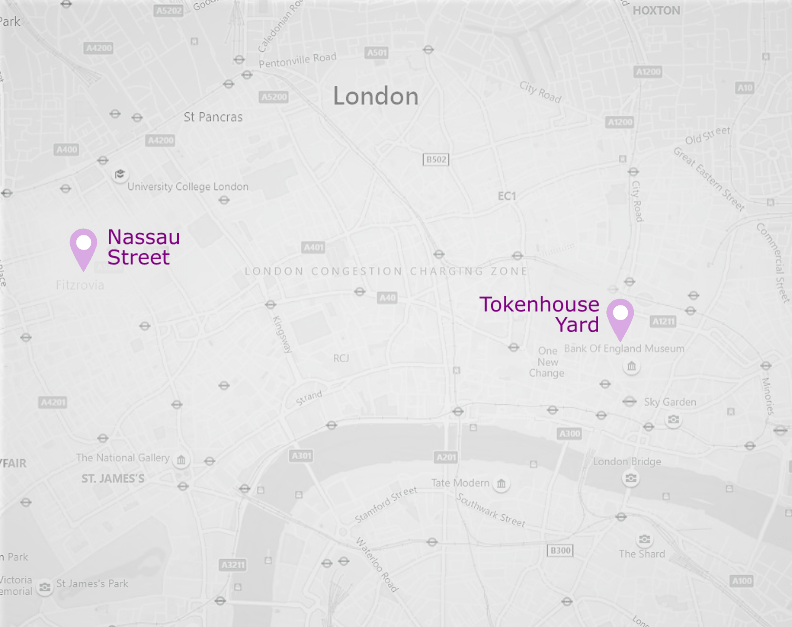
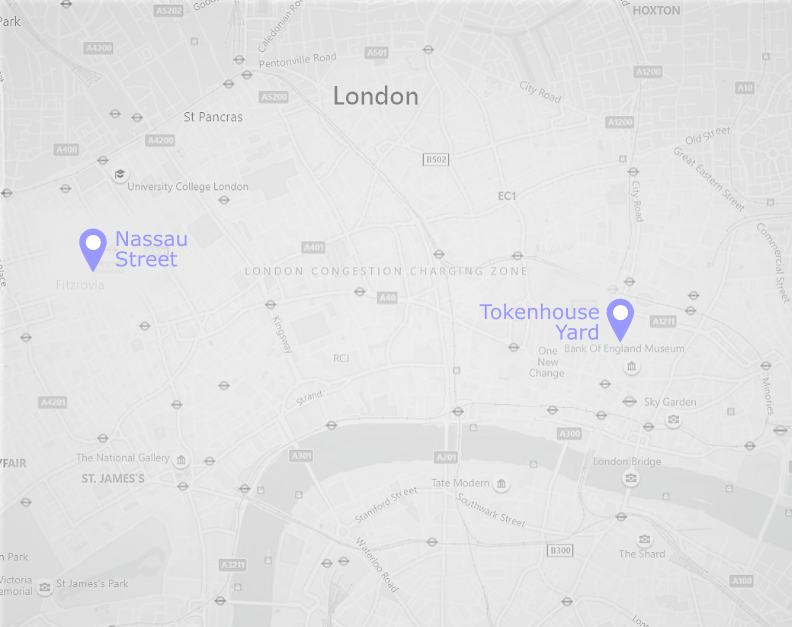
Contact page color theme changed

Changed region(s): [[0.6061, 0.4545, 0.8182, 0.5455], [0.0909, 0.3636, 0.2424, 0.4545]]

diff --git a/client/src/pages/Contact/Contact.css b/client/src/pages/Contact/Contact.css
@@ -154,7 +154,7 @@
     font-family: sans-serif;
     font-size: 1.1rem;
     height: 1rem;
-    opacity: .4;
+    /* opacity: .4; */
 }
 .Form__message_sent,
 .Form__message_err{
@@ -173,6 +173,7 @@
     background: rgba(255,255,255,1);
     border-radius: 100%;
     color: #D8A8E3;
+    color: #cbcbff;
     display: inline-block;
     font-size: 1.6rem;
     line-height: 2.5rem;

diff --git a/client/src/App.css b/client/src/App.css
@@ -160,9 +160,11 @@ section div{
 .Contact__bg_themed{
     background:  #D8A8E3;
     background: #ecd5f1;
+    background: #E4E4FF;
 }
 .Contact__color_themed{
     color:  #D8A8E3;
+    color: #cbcbff;
     /* color: #ecd5f1; */
 }
 

diff --git a/client/src/components/Page/Page.css b/client/src/components/Page/Page.css
@@ -86,6 +86,7 @@
 .Contact .Page__nav a.selected{
     background: #D8A8E3;
     background: #ecd5f1;
+    background: #E4E4FF;
 }
 .Page__nav_num{
     font-size: 1.4rem;
